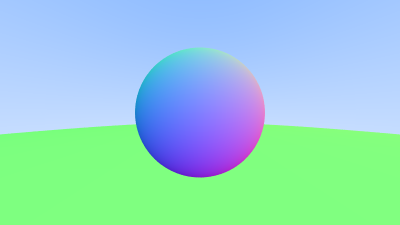
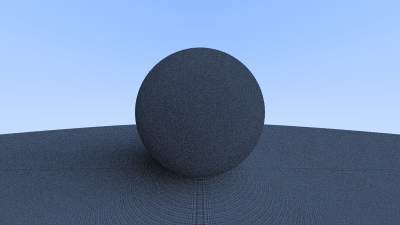
Diffuse matrial implementation

diff --git a/src/main.rs b/src/main.rs
@@ -2,7 +2,6 @@ use nalgebra::{Vector3, vector};
 use std::rc::Rc;
 use rand::prelude::*;
 
-
 fn main() {
     
 
@@ -280,7 +279,7 @@ impl Camera {
 
             let result = (0..(self.samples_per_pixel)).map(|_| {
                 let ray = self.get_ray(x, y);
-                Camera::ray_color(&ray, world)
+                self.ray_color(&ray, world)
             }).fold(Vector3::<f32>::default(), |acc, x| acc + x) 
             / (self.samples_per_pixel as f32);
 
@@ -293,11 +292,12 @@ impl Camera {
     }
 
     
-    fn ray_color(ray: &Ray, hittable: &dyn Hittable) -> Color {
+    fn ray_color(&mut self, ray: &Ray, hittable: &dyn Hittable) -> Color {
         let mut hit_record = HitRecord::default();
 
         if hittable.hit(ray, Interval::new(0.0, f32::INFINITY), &mut hit_record) {
-            return (hit_record.normal + vector![1.0,1.0,1.0]) / 2.0;
+            let direction = get_random_vec_hemi(&mut self.rng, &hit_record.normal);
+            return self.ray_color(&Ray::new(hit_record.point, direction), hittable) / 2.0;
         };
 
         let unit_direction = ray.direction / ray.direction.norm();
@@ -318,5 +318,28 @@ impl Camera {
         let px = -0.5 + self.rng.gen::<f32>();
         let py = -0.5 + self.rng.gen::<f32>();
         px * self.pixel_delta_u + py * self.pixel_delta_v
+    }
+}
+
+
+fn get_random_vec(rng: &mut ThreadRng) -> Vector3<f32> {
+    vector![rng.gen(), rng.gen(), rng.gen()]
+}
+
+fn get_random_unit(rng: &mut ThreadRng) -> Vector3<f32> {
+    loop {
+        let p = get_random_vec(rng);
+        if p.norm() < 1.0 {
+            return p
+        }
+    }
+}
+
+fn get_random_vec_hemi(rng: &mut ThreadRng, normal: &Vector3<f32>) -> Vector3<f32> {
+    let on_unit_sphere = get_random_unit(rng);
+    if on_unit_sphere.dot(normal) > 0.0 {
+        on_unit_sphere
+    } else {
+        -on_unit_sphere
     }
 }
